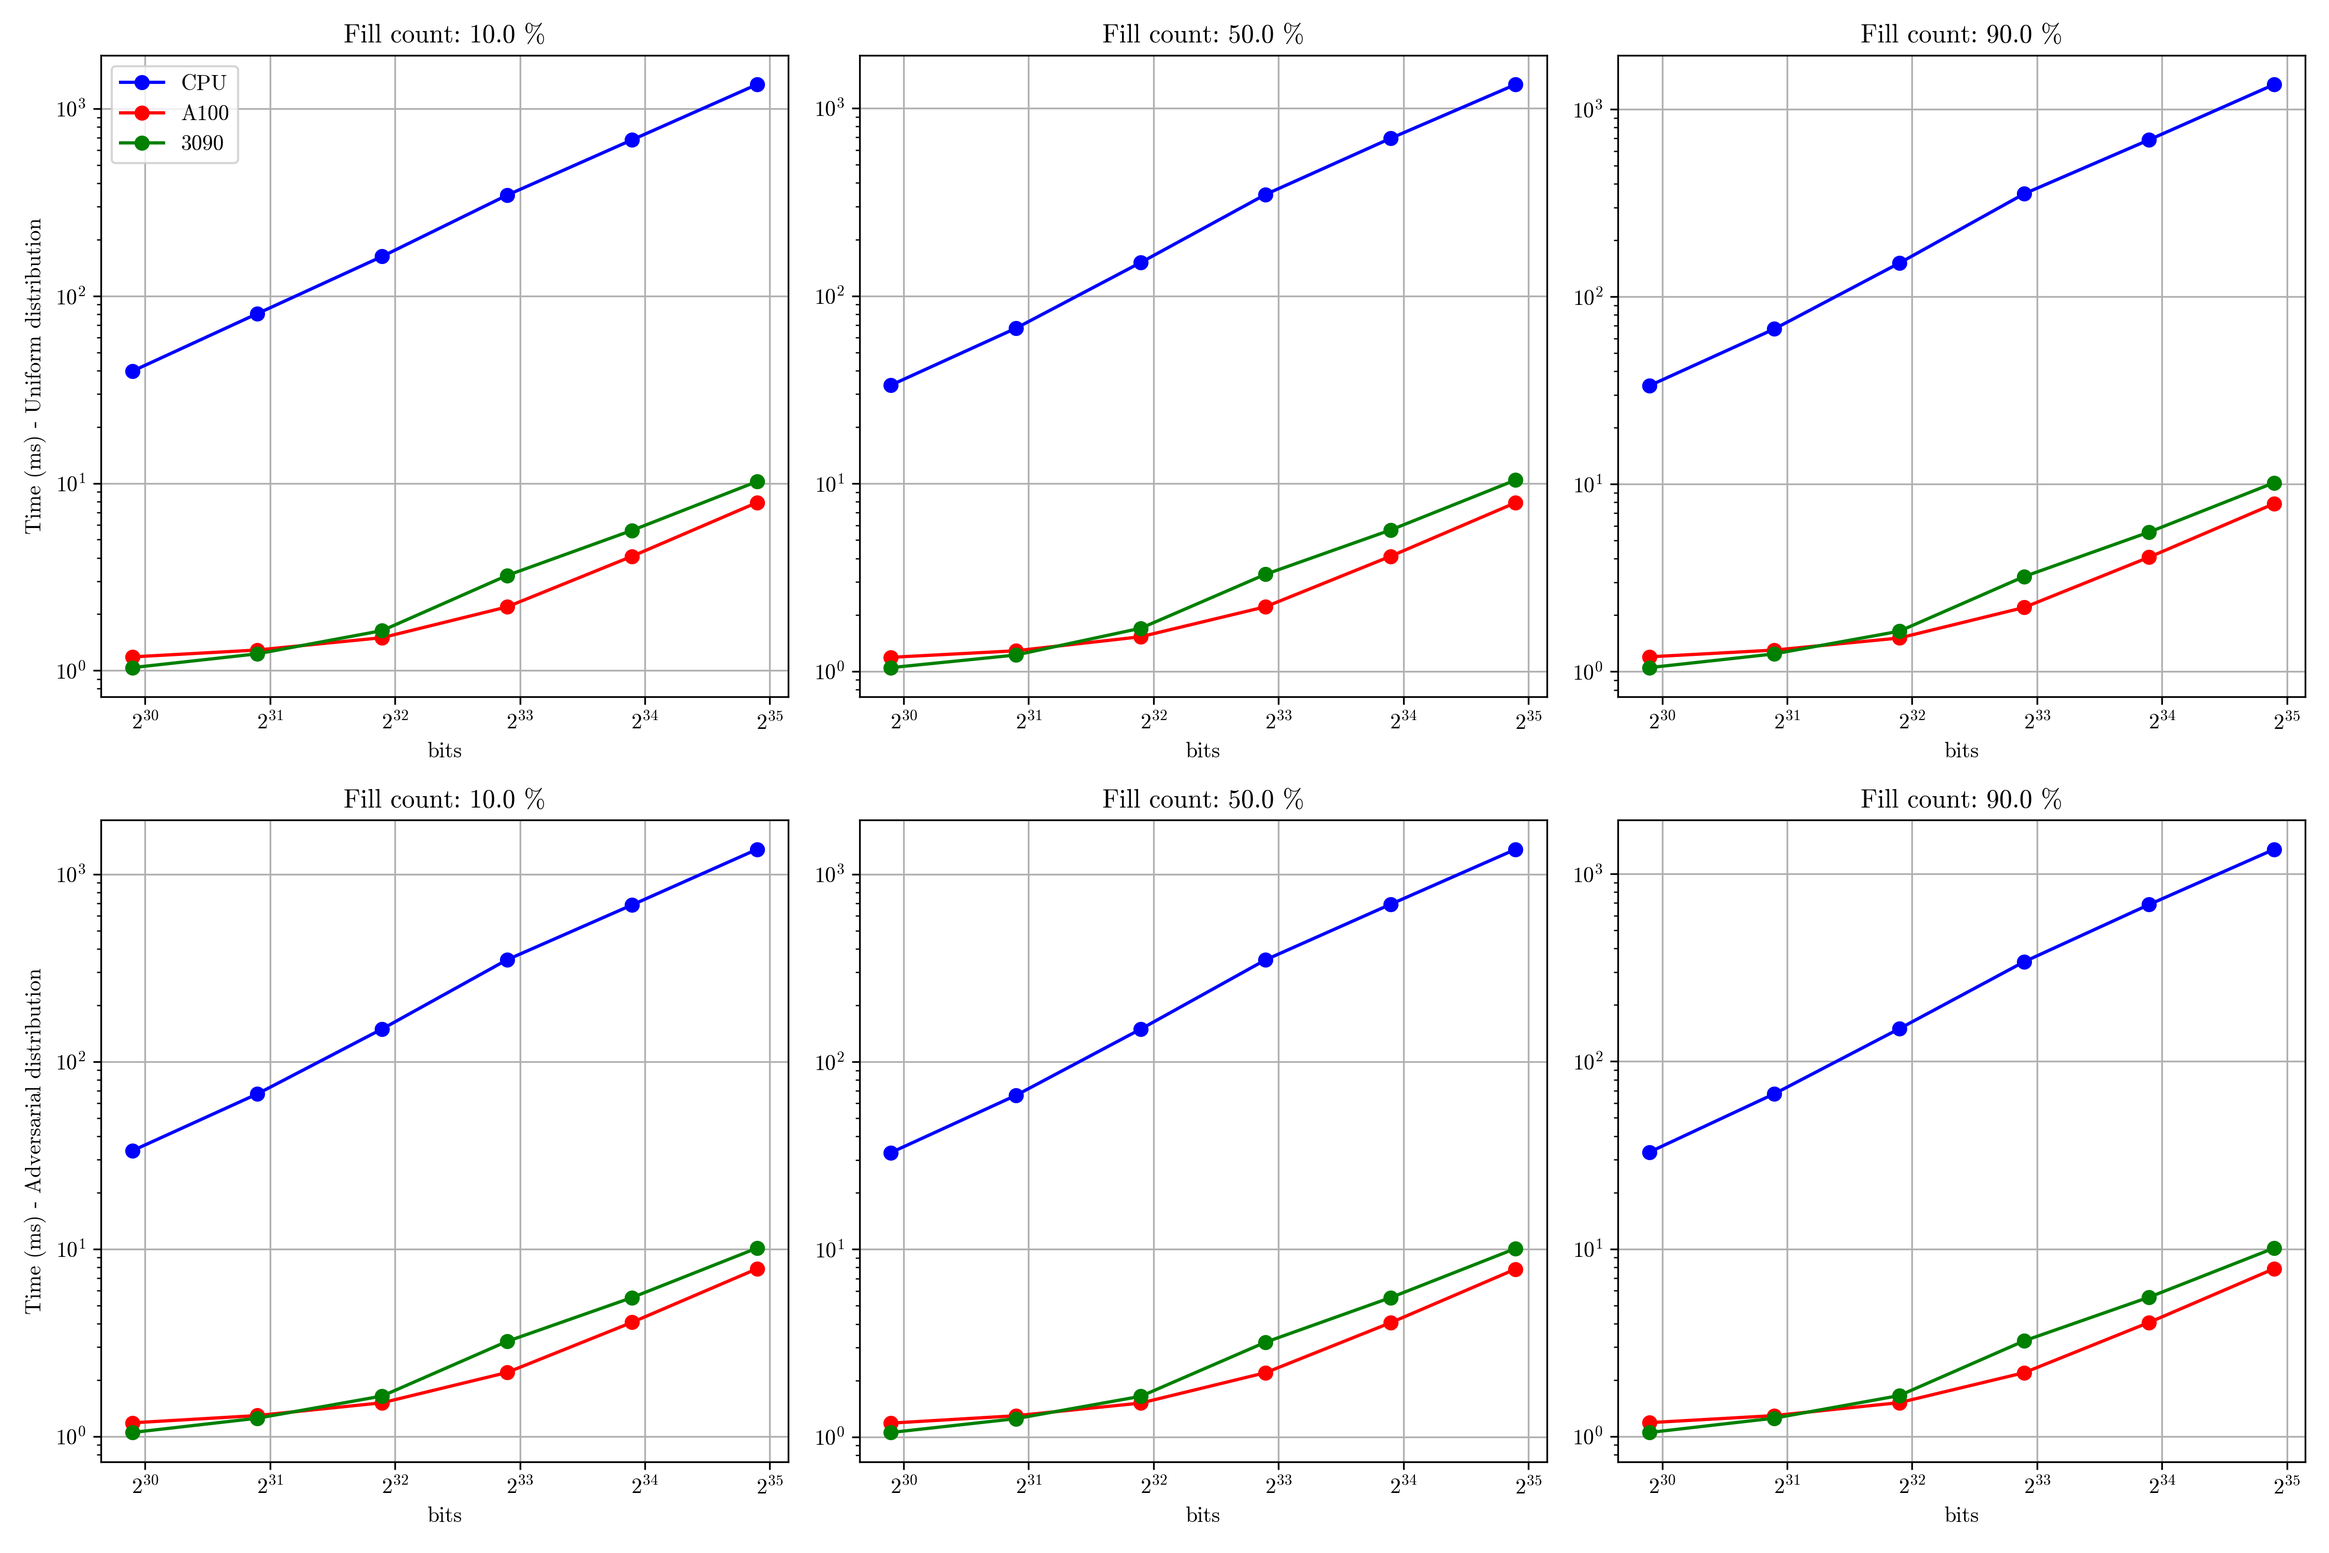
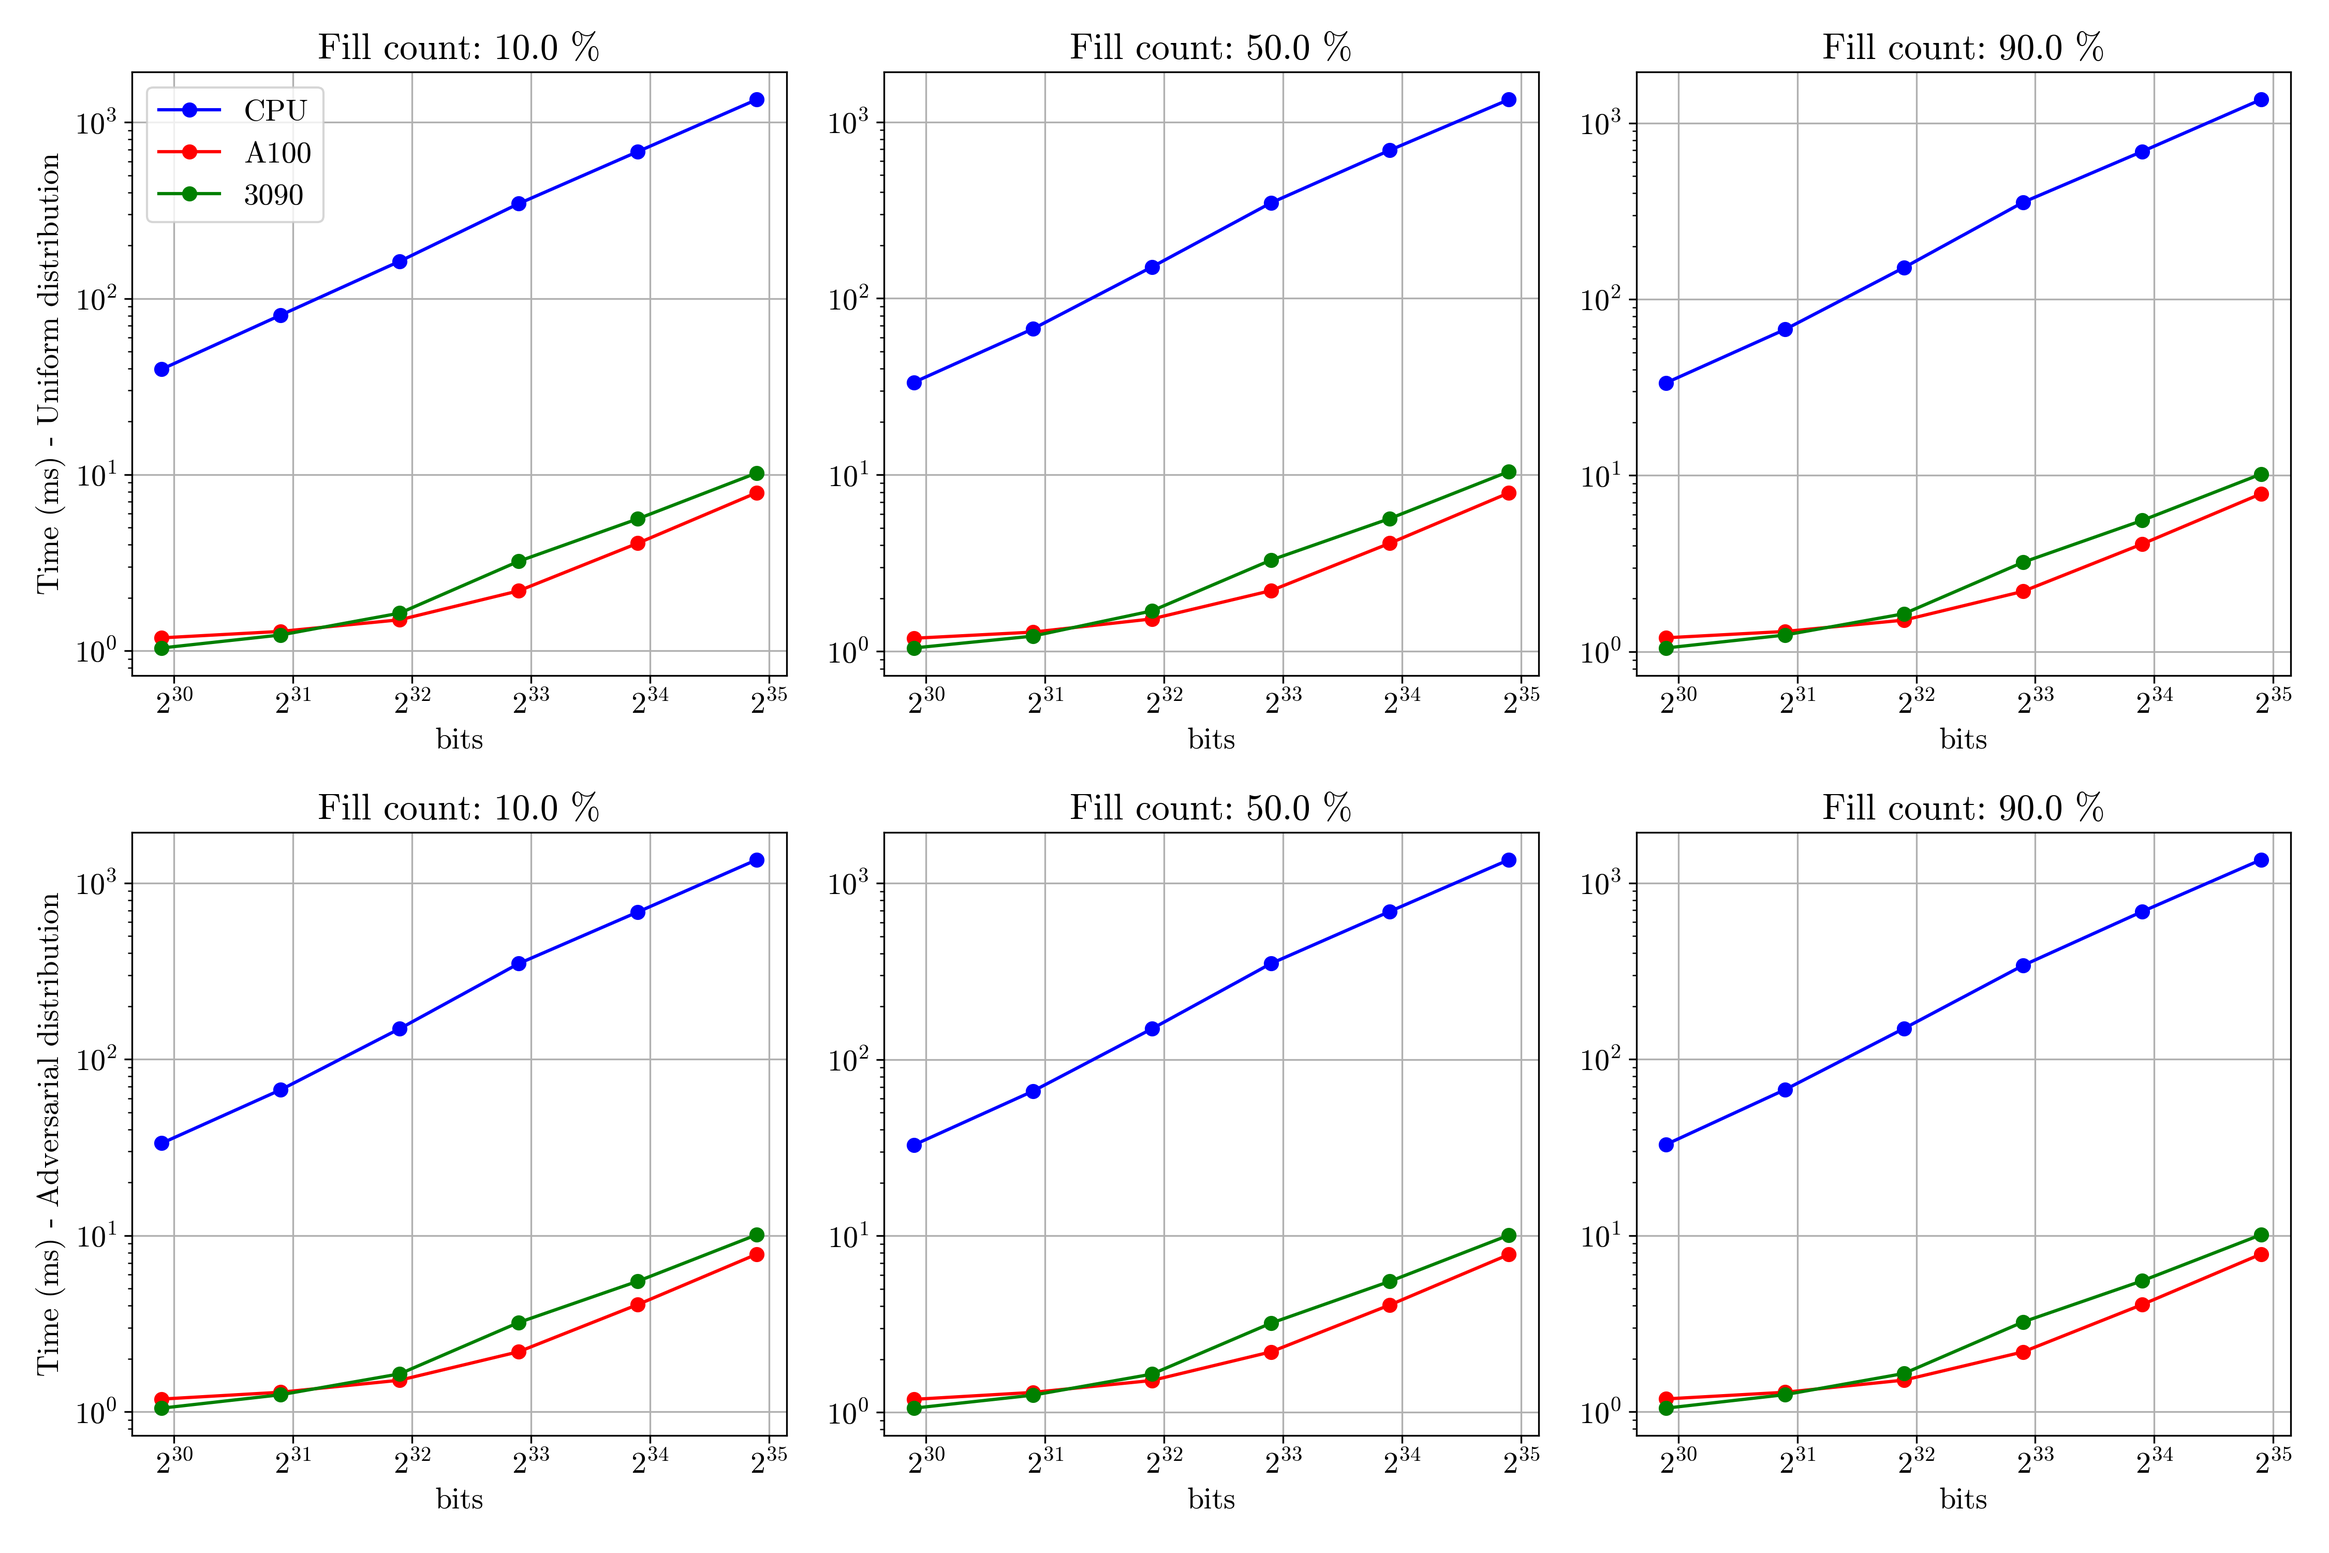
Change RS benchmark plots

diff --git a/benchmark/plot_RS_benchmarks.py b/benchmark/plot_RS_benchmarks.py
@@ -39,6 +39,7 @@ for name, df in gpu_dfs.items():
     fill_rates = gpu_construct_dfs[name]["param.fill_rate"].unique()
 
 plt.rcParams["font.family"] = "cmr10"
+plt.rcParams["font.size"] = 14
 
 # Plot configuration
 fig, axes = plt.subplots(2, len(fill_rates), figsize=(5 * len(fill_rates), 10))
@@ -81,13 +82,13 @@ for row, is_adversarial in enumerate([0, 1]):
 fig.tight_layout()
 plt.savefig(basedir + "/results/RS_construction.png", dpi=300)
 
-cpu_rank_0_dfs = {}
+cpu_rank_dfs = {}
 for name, df in cpu_dfs.items():
-    cpu_rank_0_dfs[name] = df[df["name"].str.lower().str.contains("binaryrank<0>")]
+    cpu_rank_dfs[name] = df[df["name"].str.lower().str.contains("binaryrank")]
 
-gpu_rank_0_dfs = {}
+gpu_rank_dfs = {}
 for name, df in gpu_dfs.items():
-    gpu_rank_0_dfs[name] = df[df["name"].str.lower().str.contains("binaryrank<0>")]
+    gpu_rank_dfs[name] = df[df["name"].str.lower().str.contains("binaryrank")]
 
 # Plot configuration
 fig, axes = plt.subplots(2, len(fill_rates), figsize=(5 * len(fill_rates), 10))
@@ -95,49 +96,83 @@ fig, axes = plt.subplots(2, len(fill_rates), figsize=(5 * len(fill_rates), 10))
 for row, is_adversarial in enumerate([0, 1]):
     for col, fill_rate in enumerate(fill_rates):
         ax = axes[row, col]
-        for name, df in cpu_rank_0_dfs.items():
+        for name, df in cpu_rank_dfs.items():
             group = df[df["param.fill_rate"] == fill_rate]
             group = group[group["param.is_adversarial"] == is_adversarial]
-            ax.plot(
-                group["param.size"],
-                # convert to throughput
-                1000 * (group["param.num_queries"] / group["median_real_time"]),
-                label=name,
-                marker="o",
-                color="blue",
-            )
-        for name, df in gpu_rank_0_dfs.items():
+            for query_type in [0, 1]:
+                subgroup = group[
+                    group["name"].str.lower().str.contains(f"binaryrank<{query_type}>")
+                ]
+                ax.plot(
+                    subgroup["param.size"],
+                    # convert to throughput
+                    1000
+                    * (subgroup["param.num_queries"] / subgroup["median_real_time"]),
+                    marker="o",
+                    color="blue",
+                    linestyle="--" if query_type == 0 else "-",
+                )
+        for name, df in gpu_rank_dfs.items():
             group = df[df["param.fill_rate"] == fill_rate]
             group = group[group["param.is_adversarial"] == is_adversarial]
-            ax.plot(
-                group["param.size"],
-                1000 * (group["param.num_queries"] / group["median_real_time"]),
-                label=name,
-                marker="o",
-                color="red" if name == "A100" else "green",
-            )
+            for query_type in [0, 1]:
+                subgroup = group[
+                    group["name"].str.lower().str.contains(f"binaryrank<{query_type}>")
+                ]
+                ax.plot(
+                    subgroup["param.size"],
+                    # convert to throughput
+                    1000
+                    * (subgroup["param.num_queries"] / subgroup["median_real_time"]),
+                    marker="o",
+                    color="red" if name == "A100" else "green",
+                    linestyle="--" if query_type == 0 else "-",
+                )
         ax.set_title("Fill count: " + str(fill_rate) + " %")
         ax.set_xlabel("bits")
         if col == 0:
             ax.set_ylabel(
                 f"Throughput (queries/s) - {'Adversarial' if is_adversarial else 'Uniform'} distribution"
             )
-            if row == 0:
-                ax.legend(loc="upper left", bbox_to_anchor=(0.0, 1))
         ax.set_xscale("log", base=2)
         ax.set_yscale("log")
         ax.grid()
 
+# manual legend
+handles = [
+    plt.Line2D([0], [0], color="blue", lw=2),
+    plt.Line2D([0], [0], color="red", lw=2),
+    plt.Line2D([0], [0], color="green", lw=2),
+    plt.Line2D([0], [0], color="black", lw=2, linestyle="--"),
+    plt.Line2D([0], [0], color="black", lw=2),
+]
+labels = [
+    "CPU",
+    "A100",
+    "3090",
+    r"Rank$_0$",
+    r"Rank$_1$",
+]
+fig.legend(
+    handles,
+    labels,
+    loc="lower center",
+    bbox_to_anchor=(0.5, 0.0),
+    ncol=5,
+    fontsize=14,
+)
 fig.tight_layout()
-plt.savefig(basedir + "/results/RS_rank_0.png", dpi=300)
+# add extra space at the bottom
+fig.subplots_adjust(bottom=0.1)
+plt.savefig(basedir + "/results/RS_rank.png", dpi=300)
 
-cpu_rank_1_dfs = {}
+cpu_select_dfs = {}
 for name, df in cpu_dfs.items():
-    cpu_rank_1_dfs[name] = df[df["name"].str.lower().str.contains("binaryrank<1>")]
+    cpu_select_dfs[name] = df[df["name"].str.lower().str.contains("binaryselect")]
 
-gpu_rank_1_dfs = {}
+gpu_select_dfs = {}
 for name, df in gpu_dfs.items():
-    gpu_rank_1_dfs[name] = df[df["name"].str.lower().str.contains("binaryrank<1>")]
+    gpu_select_dfs[name] = df[df["name"].str.lower().str.contains("binaryselect")]
 
 # Plot configuration
 fig, axes = plt.subplots(2, len(fill_rates), figsize=(5 * len(fill_rates), 10))
@@ -145,135 +180,77 @@ fig, axes = plt.subplots(2, len(fill_rates), figsize=(5 * len(fill_rates), 10))
 for row, is_adversarial in enumerate([0, 1]):
     for col, fill_rate in enumerate(fill_rates):
         ax = axes[row, col]
-        for name, df in cpu_rank_1_dfs.items():
+        for name, df in cpu_select_dfs.items():
             group = df[df["param.fill_rate"] == fill_rate]
             group = group[group["param.is_adversarial"] == is_adversarial]
-            ax.plot(
-                group["param.size"],
-                1000 * (group["param.num_queries"] / group["median_real_time"]),
-                label=name,
-                marker="o",
-                color="blue",
-            )
-        for name, df in gpu_rank_1_dfs.items():
+            for query_type in [0, 1]:
+                subgroup = group[
+                    group["name"]
+                    .str.lower()
+                    .str.contains(f"binaryselect<{query_type}>")
+                ]
+                ax.plot(
+                    subgroup["param.size"],
+                    # convert to throughput
+                    1000
+                    * (subgroup["param.num_queries"] / subgroup["median_real_time"]),
+                    marker="o",
+                    color="blue",
+                    linestyle="--" if query_type == 0 else "-",
+                )
+        for name, df in gpu_select_dfs.items():
             group = df[df["param.fill_rate"] == fill_rate]
             group = group[group["param.is_adversarial"] == is_adversarial]
-            ax.plot(
-                group["param.size"],
-                1000 * (group["param.num_queries"] / group["median_real_time"]),
-                label=name,
-                marker="o",
-                color="red" if name == "A100" else "green",
-            )
+            for query_type in [0, 1]:
+                subgroup = group[
+                    group["name"]
+                    .str.lower()
+                    .str.contains(f"binaryselect<{query_type}>")
+                ]
+                ax.plot(
+                    subgroup["param.size"],
+                    # convert to throughput
+                    1000
+                    * (subgroup["param.num_queries"] / subgroup["median_real_time"]),
+                    marker="o",
+                    color="red" if name == "A100" else "green",
+                    linestyle="--" if query_type == 0 else "-",
+                )
         ax.set_title("Fill count: " + str(fill_rate) + " %")
         ax.set_xlabel("bits")
         if col == 0:
             ax.set_ylabel(
                 f"Throughput (queries/s) - {'Adversarial' if is_adversarial else 'Uniform'} distribution"
             )
-            if row == 0:
-                ax.legend(loc="upper left", bbox_to_anchor=(0.0, 1))
         ax.set_xscale("log", base=2)
         ax.set_yscale("log")
         ax.grid()
 
+# manual legend
+handles = [
+    plt.Line2D([0], [0], color="blue", lw=2),
+    plt.Line2D([0], [0], color="red", lw=2),
+    plt.Line2D([0], [0], color="green", lw=2),
+    plt.Line2D([0], [0], color="black", lw=2, linestyle="--"),
+    plt.Line2D([0], [0], color="black", lw=2),
+]
+labels = [
+    "CPU",
+    "A100",
+    "3090",
+    r"Select$_0$",
+    r"Select$_1$",
+]
+fig.legend(
+    handles,
+    labels,
+    loc="lower center",
+    bbox_to_anchor=(0.5, 0.0),
+    ncol=5,
+    fontsize=14,
+)
 fig.tight_layout()
-plt.savefig(basedir + "/results/RS_rank_1.png", dpi=300)
-
-cpu_select_0_dfs = {}
-for name, df in cpu_dfs.items():
-    cpu_select_0_dfs[name] = df[df["name"].str.lower().str.contains("binaryselect<0>")]
-
-gpu_select_0_dfs = {}
-for name, df in gpu_dfs.items():
-    gpu_select_0_dfs[name] = df[df["name"].str.lower().str.contains("binaryselect<0>")]
-
-# Plot configuration
-fig, axes = plt.subplots(2, len(fill_rates), figsize=(5 * len(fill_rates), 10))
-
-for row, is_adversarial in enumerate([0, 1]):
-    for col, fill_rate in enumerate(fill_rates):
-        ax = axes[row, col]
-        for name, df in cpu_select_0_dfs.items():
-            group = df[df["param.fill_rate"] == fill_rate]
-            group = group[group["param.is_adversarial"] == is_adversarial]
-            ax.plot(
-                group["param.size"],
-                1000 * (group["param.num_queries"] / group["median_real_time"]),
-                label=name,
-                marker="o",
-                color="blue",
-            )
-        for name, df in gpu_select_0_dfs.items():
-            group = df[df["param.fill_rate"] == fill_rate]
-            group = group[group["param.is_adversarial"] == is_adversarial]
-            ax.plot(
-                group["param.size"],
-                1000 * (group["param.num_queries"] / group["median_real_time"]),
-                label=name,
-                marker="o",
-                color="red" if name == "A100" else "green",
-            )
-        ax.set_title("Fill count: " + str(fill_rate) + " %")
-        ax.set_xlabel("bits")
-        if col == 0:
-            ax.set_ylabel(
-                f"Throughput (queries/s) - {'Adversarial' if is_adversarial else 'Uniform'} distribution"
-            )
-            if row == 0:
-                ax.legend(loc="upper left", bbox_to_anchor=(0.0, 1))
-        ax.set_xscale("log", base=2)
-        ax.set_yscale("log")
-        ax.grid()
-
-fig.tight_layout()
-plt.savefig(basedir + "/results/RS_select_0.png", dpi=300)
-
-cpu_select_1_dfs = {}
-for name, df in cpu_dfs.items():
-    cpu_select_1_dfs[name] = df[df["name"].str.lower().str.contains("binaryselect<1>")]
-
-gpu_select_1_dfs = {}
-for name, df in gpu_dfs.items():
-    gpu_select_1_dfs[name] = df[df["name"].str.lower().str.contains("binaryselect<1>")]
-
-# Plot configuration
-fig, axes = plt.subplots(2, len(fill_rates), figsize=(5 * len(fill_rates), 10))
-
-for row, is_adversarial in enumerate([0, 1]):
-    for col, fill_rate in enumerate(fill_rates):
-        ax = axes[row, col]
-        for name, df in cpu_select_1_dfs.items():
-            group = df[df["param.fill_rate"] == fill_rate]
-            group = group[group["param.is_adversarial"] == is_adversarial]
-            ax.plot(
-                group["param.size"],
-                1000 * (group["param.num_queries"] / group["median_real_time"]),
-                label=name,
-                marker="o",
-                color="blue",
-            )
-        for name, df in gpu_select_1_dfs.items():
-            group = df[df["param.fill_rate"] == fill_rate]
-            group = group[group["param.is_adversarial"] == is_adversarial]
-            ax.plot(
-                group["param.size"],
-                1000 * (group["param.num_queries"] / group["median_real_time"]),
-                label=name,
-                marker="o",
-                color="red" if name == "A100" else "green",
-            )
-        ax.set_title("Fill count: " + str(fill_rate) + " %")
-        ax.set_xlabel("bits")
-        if col == 0:
-            ax.set_ylabel(
-                f"Throughput (queries/s) - {'Adversarial' if is_adversarial else 'Uniform'} distribution"
-            )
-            if row == 0:
-                ax.legend(loc="upper left", bbox_to_anchor=(0.0, 1))
-        ax.set_xscale("log", base=2)
-        ax.set_yscale("log")
-        ax.grid()
-
-fig.tight_layout()
-plt.savefig(basedir + "/results/RS_select_1.png", dpi=300)
+# add extra space at the bottom
+fig.subplots_adjust(bottom=0.1)
+plt.savefig(basedir + "/results/RS_select.png", dpi=300)
+plt.close("all")
